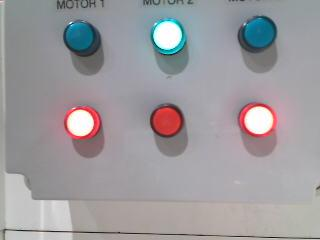
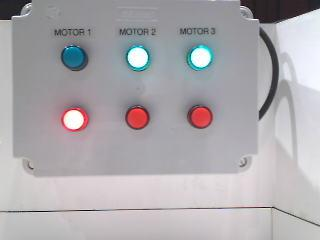
Mudancas para reta final

diff --git a/painel.py b/painel.py
@@ -21,7 +21,7 @@ def findButtons(lowerBound, upperBound, img, arrayTotal, str):
 
 	for i in range(len(conts)):
 		x,y,w,h = cv2.boundingRect(conts[i])
-		if(w/h > 0.8 and w/h < 1.2):
+		if(w/h > 0.7 and w/h < 1.3):
 			cv2.rectangle(img,(x,y),(x+w,y+h),(0,0,255), 2)
 			newConts.append(conts[i])
 			arrayTotal.append([x, str])
@@ -53,20 +53,20 @@ def findInArray(value, contArray, str):
 
 #Main
 if __name__ == '__main__':
-	imgName = "painel4.jpeg"
+	imgName = "image_3.jpeg"
 	img = cv2.imread(imgName)
 
 	#Define green
-	lowerBoundGreen=np.array([41,0,214])
-	upperBoundGreen=np.array([95,225,255])
+	lowerBoundGreen=np.array([95,91,0])
+	upperBoundGreen=np.array([118,255,154])
 
 	#Define red
-	lowerBoundRed=np.array([0,52,223])
-	upperBoundRed=np.array([65,251,255])
+	lowerBoundRed=np.array([0,153,204])
+	upperBoundRed=np.array([179,235,255])
 
 	arrayTotal = []
-	contsGreen = findButtons(lowerBoundGreen, upperBoundGreen, img, arrayTotal, "L")
-	contsRed = findButtons(lowerBoundRed, upperBoundRed, img, arrayTotal, "D")
+	contsGreen = findButtons(lowerBoundGreen, upperBoundGreen, img, arrayTotal, "D")
+	contsRed = findButtons(lowerBoundRed, upperBoundRed, img, arrayTotal, "L")
 
 	result = findAll(arrayTotal)
 	print(result)

diff --git a/valvula.py b/valvula.py
@@ -13,14 +13,14 @@ if __name__ == '__main__':
 	#Definicao das cores
 	#lowerBound=np.array([0,0,0])
 	#upperBound=np.array([70,98,77])
-	lowerBound = np.array([0,0,0])
-	upperBound = np.array([179,255,152])
+	lowerBound = np.array([95,91,0])
+	upperBound = np.array([118,255,154])
 
 	#Create font to print on screen
 	font = cv2.FONT_HERSHEY_SIMPLEX
 
 	#Choose foto and resize
-	img = cv2.imread('valvula6.jpeg')
+	img = cv2.imread('image_3.jpeg')
 	#img = cv2.resize(imgBig, (340,220))
 
 	#Convert image to HSV format
@@ -43,16 +43,18 @@ if __name__ == '__main__':
 	area = 0.0
 	for i in range(len(conts)):
 		x,y,w,h = cv2.boundingRect(conts[i])
+		cv2.drawContours(img,conts[i],-1,(255,0,0),3)
+		cv2.rectangle(img,(x,y),(x+w,y+h),(0,0,255), 2)
 		if(area < w*h):
 			rect = conts[i]
 			area = w*h
 
-	x,y,w,h = cv2.boundingRect(rect)
-	cv2.drawContours(img,rect,-1,(255,0,0),3)
-	cv2.rectangle(img,(x,y),(x+w,y+h),(0,0,255), 2)
+	#x,y,w,h = cv2.boundingRect(rect)
+	#cv2.drawContours(img,rect,-1,(255,0,0),3)
+	#cv2.rectangle(img,(x,y),(x+w,y+h),(0,0,255), 2)
 	if(h/w > 1.3):
 		print("Aberto")
 	else:
 		print("Fechado")
-	cv2.imshow("image", img)
+	cv2.imshow("image_1", img)
 	cv2.waitKey(0)

diff --git a/faseProducao.py b/faseProducao.py
@@ -27,7 +27,7 @@ def findButtons(lowerBound, upperBound, img, arrayTotal, str):
 
 	for i in range(len(conts)):
 		x,y,w,h = cv2.boundingRect(conts[i])
-		if(w/h > 0.8 and w/h < 1.2):
+		if(w/h > 0.7 and w/h < 1.3):
 			cv2.rectangle(img,(x,y),(x+w,y+h),(0,0,255), 2)
 			newConts.append(conts[i])
 			arrayTotal.append([x, str])
@@ -74,14 +74,14 @@ if __name__ == '__main__':
 
 			#CORES
 			#Green
-			lowerBoundGreen=np.array([67,95,20])
-			upperBoundGreen=np.array([117,255,162])
+			lowerBoundGreen=np.array([95,91,0])
+			upperBoundGreen=np.array([118,255,154])
 			#Red
-			lowerBoundRed=np.array([0,142,16])
-			upperBoundRed=np.array([63, 225, 225])
+			lowerBoundRed=np.array([0,153,204])
+			upperBoundRed=np.array([179,235,255])
 			#Grey
 			lowerBoundGrey = np.array([0,0,0])
-			upperBoundGrey = np.array([179,255,152])
+			upperBoundGrey = np.array([179,255,132])
 
 			#Pegar imagem e mostrar estado:
 			imgName = "image_" + str(stateImage) + ".jpeg"

diff --git a/acharCores.py b/acharCores.py
@@ -38,7 +38,7 @@ if __name__ == '__main__':
 	cv2.setTrackbarPos(vh, barsWindow, 255)
 
 	while(True):
-		frame = cv2.imread('valvula6.jpeg')
+		frame = cv2.imread('image_3.jpeg')
 		frame = cv2.GaussianBlur(frame, (5, 5), 0)
     
     	# convert to HSV from BGR
